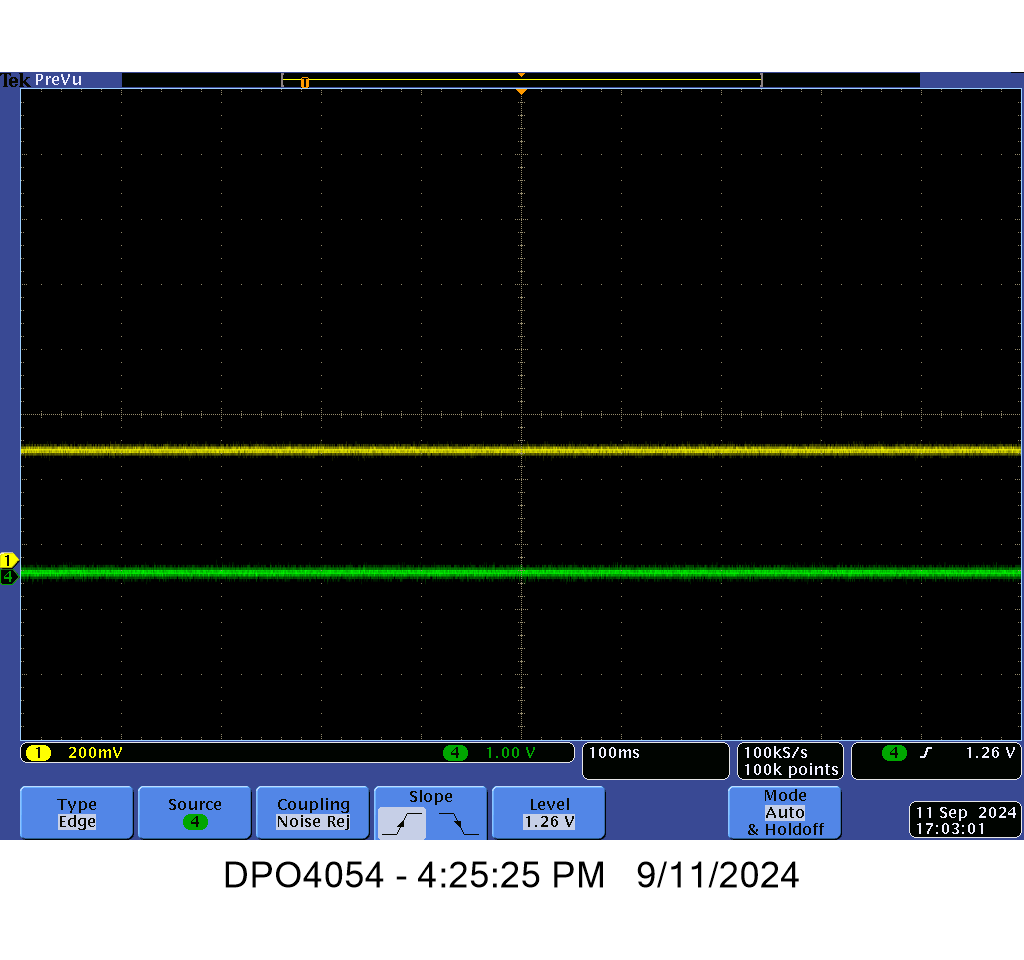
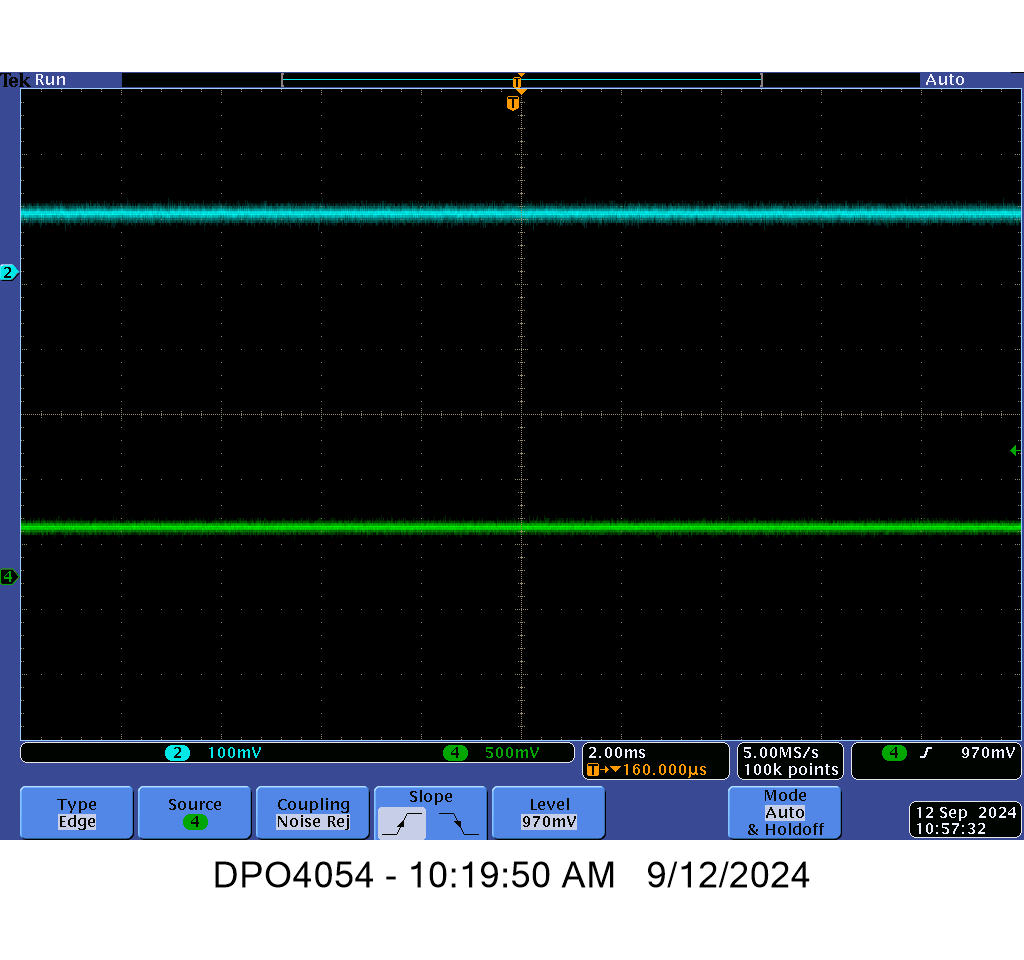
i modified time sleep on openchoice_screenshot, and added the control loop on AZ comparator in the scripts test_azcomp_outp_working

diff --git a/test_azcomp_outp_working.py b/test_azcomp_outp_working.py
@@ -1,4 +1,4 @@
-from SwitchMatrix import mcp2221,mcp2317
+from SwitchMatrix.mcp2221 import MCP2221
 from Instruments.Audio_precision import AP555
 from Instruments.DigitalScope import dpo_2014B
 from time import sleep, ctime, time
@@ -8,7 +8,7 @@ import os
 import math
 
 scope = dpo_2014B("USB0::0x0699::0x0401::C020132::INSTR")
-mcp=mcp2221()
+mcp=MCP2221()
 AP_file = "Char_6311_AZcomp.approjx"
 
 path = os.getcwd() + "\\PA_template\\" + AP_file
@@ -20,32 +20,35 @@ print(type(AZ_offset))
 DC_offset2 = 1.8
 ap.Configure_Generator(False,Level1=-60, Level2=-60  , Freq=1000, Waveform = 'Sine, Var Phase', DC_offset1= 1.8, DC_offset2= 1.8)
 ap.Enable_Generator(True)
+AZ_offset_array = []
 
+
+#################################################  deleted intrinsic offset
 if abs(AZ_offset) > 0:
-    print("AAAAAAAAAAAAAAAAAAAAAAAAA",AZ_offset)
     while -0.00025< AZ_offset > 0.00025:
         DC_offset2 = DC_offset2 + 0.00025
         print("DC offset is:", DC_offset2)
-        sleep(2)
+        sleep(1)
         ap.Configure_Generator(False,Level1=-60, Level2=-60  , Freq=1000, Waveform = 'Sine, Var Phase', DC_offset1= 1.8, DC_offset2= DC_offset2)
-        sleep(2)
+        sleep(1)
         AZ_offset = ap.Read_meter(3,1)
-        print("Comparator's offset is ***********************************:", AZ_offset)
-DC_offset2_correct = DC_offset2
-ap.Configure_Generator(False,Level1=-60, Level2=-60  , Freq=1000, Waveform = 'Sine, Var Phase', DC_offset1= 1.8, DC_offset2= DC_offset2_correct)
+        print("Comparator's offset is:", AZ_offset)
+DC_offset2_correct1 = DC_offset2
+print("DC_offset_correct:", DC_offset2_correct1)
+ap.Configure_Generator(False,Level1=-60, Level2=-60  , Freq=1000, Waveform = 'Sine, Var Phase', DC_offset1= 1.8, DC_offset2= DC_offset2_correct1)
 
 if AZ_offset < 0:
-    print("AAAAAAAAAAAAAAAAAAAAAAAAA", abs(AZ_offset))
     while abs(AZ_offset) > 0.00025:
-        DC_offset2 = DC_offset2 - 0.00025
+        DC_offset2 = DC_offset2 + 0.00025
         print("DC offset is:", DC_offset2)
-        sleep(2)
+        sleep(1)
         ap.Configure_Generator(False,Level1=-60, Level2=-60  , Freq=1000, Waveform = 'Sine, Var Phase', DC_offset1= 1.8, DC_offset2= DC_offset2)
-        sleep(2)
+        sleep(1)
         AZ_offset = ap.Read_meter(3,1)
-        print("Comparator's offset is ##############################:", AZ_offset)
-DC_offset2_correct = DC_offset2
-ap.Configure_Generator(False,Level1=-60, Level2=-60  , Freq=1000, Waveform = 'Sine, Var Phase', DC_offset1= 1.8, DC_offset2= DC_offset2_correct)
+        print("Comparator's offset is:", AZ_offset)
+DC_offset2_correct1 = DC_offset2
+print("DC_offset_correct:", DC_offset2_correct1)
+ap.Configure_Generator(False,Level1=-60, Level2=-60  , Freq=1000, Waveform = 'Sine, Var Phase', DC_offset1= 1.8, DC_offset2= DC_offset2_correct1)
 
 ####Setup the device
 
@@ -58,14 +61,35 @@ mcp.mcpWrite(SlaveAddress=0x6C,data=[0xE1,0x1F])
 scope.set_trigger__mode(mode='NORM')
 scope.set_HScale()
 scope.set_Channel__VScale(scale=0.5)
+DC_offset2_correct2 = DC_offset2_correct1
+i = 1
 
-while DC_offset2 < 1.810:
-    DC_offset2 = DC_offset2 = DC_offset2 + 0.00025
+while DC_offset2_correct2 < 1.805:
+    ap.Configure_Generator(False,Level1=-60, Level2=-60  , Freq=1000, Waveform = 'Sine, Var Phase', DC_offset1= 1.8, DC_offset2= DC_offset2_correct1)
+    i = i+1
+    DC_offset2_correct2 = DC_offset2_correct2 + 0.00025
     sleep(2)
     ap.Configure_Generator(False,Level1=-60, Level2=-60  , Freq=1000, Waveform = 'Sine, Var Phase', DC_offset1= 1.8, DC_offset2= DC_offset2)
     mcp.mcpWrite(SlaveAddress=0x6C,data=[0xE4,0x01])
-    scope.acquireImage()
+    scope.openchoice_screenshot(file_path=r'C:\Users\invlab\Documents\IVM6311ATE\IVM6311ATE\AZ_comp_DFT{i}.png')
     AZ_offset = ap.Read_meter(3,1)
+    AZ_offset_array.append(AZ_offset)
+ap.Configure_Generator(False,Level1=-60, Level2=-60  , Freq=1000, Waveform = 'Sine, Var Phase', DC_offset1= 1.8, DC_offset2= DC_offset2_correct1)
+DC_offset2_correct2 = DC_offset2_correct1
+
+while DC_offset2_correct2 > 1.795:
+    ap.Configure_Generator(False,Level1=-60, Level2=-60  , Freq=1000, Waveform = 'Sine, Var Phase', DC_offset1= 1.8, DC_offset2= DC_offset2_correct1)
+    i = i+1
+    DC_offset2_correct2 = DC_offset2_correct2 - 0.00025
+    sleep(2)
+    ap.Configure_Generator(False,Level1=-60, Level2=-60  , Freq=1000, Waveform = 'Sine, Var Phase', DC_offset1= 1.8, DC_offset2= DC_offset2)
+    mcp.mcpWrite(SlaveAddress=0x6C,data=[0xE4,0x01])
+    scope.openchoice_screenshot(file_path=r'C:\Users\invlab\Documents\IVM6311ATE\IVM6311ATE\AZ_comp_DFT{i}.png')
+    AZ_offset = ap.Read_meter(3,1)
+    AZ_offset_array.append(AZ_offset)
+ap.Configure_Generator(False,Level1=-60, Level2=-60  , Freq=1000, Waveform = 'Sine, Var Phase', DC_offset1= 1.8, DC_offset2= DC_offset2_correct1)
+
+
 
 
 

diff --git a/Instruments/DigitalScope.py b/Instruments/DigitalScope.py
@@ -129,13 +129,13 @@ class dpo_2014B:
         send_keys('^g') 
         time.sleep(2) 
         send_keys('^s')
-        time.sleep(1) 
+        time.sleep(2) 
         send_keys(file_path)
         send_keys('{ENTER}') 
         print("Screenshot saved!")
-        time.sleep(1)
+        time.sleep(2)
         send_keys('{ENTER}')
-        time.sleep(1)
+        time.sleep(2)
         send_keys('{ESC}') 
         #dlg.close()
 
